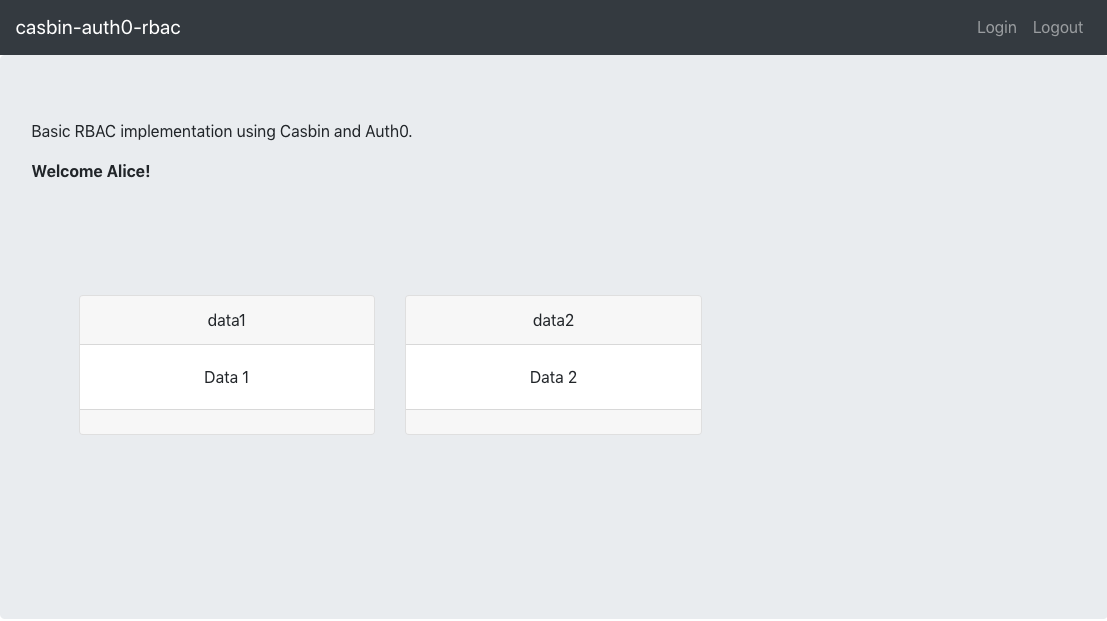
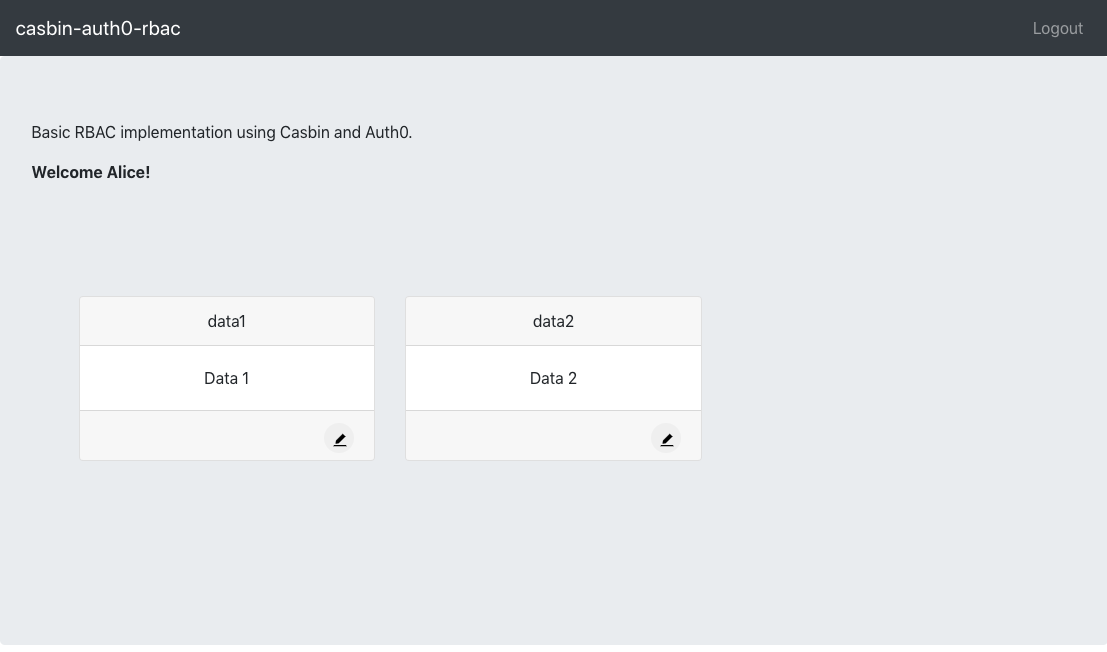
Add edit button if permissions includ write

diff --git a/src/Content.js b/src/Content.js
@@ -1,5 +1,24 @@
 import React, { useState, useEffect } from "react";
 import { useAuth0 } from "./react-auth0-spa";
+import { AiFillEdit } from "react-icons/ai";
+import { AiFillDelete } from "react-icons/ai";
+
+let footerButtonStyles = {
+  marginBottom: '15px',
+  padding: '3px 8px',
+  cursor: 'pointer',
+  borderRadius: '50%',
+  border: 'none',
+  width: '30px',
+  height: '30px',
+  fontWeight: 'bold',
+  alignSelf: 'flex-end',
+  float: 'right'
+}
+
+let cardFooterStyles = {
+  height: '50px',
+}
 
 const Content = () => {
   const [data, setData] = useState([]);
@@ -33,6 +52,31 @@ const Content = () => {
     getData();
   }, []);
 
+  const edit = async (name, description, index) => {
+    try {
+      const token = await getTokenSilently();
+      // Send a POST request to the Go server for the selected product
+      // with the vote type
+      const response = await fetch(
+        `http://localhost:8080/data/${name}`,
+        {
+          method: "PUT",
+          headers: {
+            Authorization: `Bearer ${token}`,
+          },
+          body: JSON.stringify({ description: description }),
+        }
+      );
+      // Since this is just for demonstration and we're not actually
+      // persisting this data, we'll just set the product vote status here
+      // if the product exists
+      if (response.ok) {
+      } else console.log(response.status);
+    } catch (error) {
+      console.error(error);
+    }
+  };
+
   if (loading || !user) {
     return <div>Loading...</div>;
   }
@@ -47,7 +91,10 @@ const Content = () => {
                 <div className="card mb-4">
                   <div className="card-header">{d.Name}</div>
                   <div className="card-body">{d.Description}</div>
-                  <div className="card-footer">
+                  <div className="card-footer"  style={cardFooterStyles} >
+                    {d.Permissions.includes("write") && (
+                      <button onClick={() => edit(d.Name, d.Description, index)} style={footerButtonStyles}><AiFillEdit/></button>
+                    )}
                   </div>
                 </div>
               </div>
